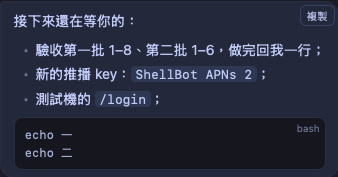
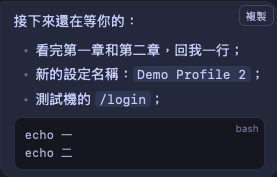
Tests: the copy test's message is neutral demo text
It was adapted from a real conversation (its review batches and a key's name). The public repo
gets demo data only: the same shape (a list, inline code, a code block), neutral words.
qa-shots/chat-copy-buttons.png redrawn.

diff --git a/tests_chat_copy.py b/tests_chat_copy.py
@@ -37,7 +37,7 @@ except ImportError:
     print("SKIP  tests_chat_copy.py（沒裝 playwright）")
     sys.exit(0)
 
-REPLY = ("接下來還在等你的：\n\n- 驗收第一批 1–8、第二批 1–6，做完回我一行；\n- 新的推播 key：`ShellBot APNs 2`；\n"
+REPLY = ("接下來還在等你的：\n\n- 看完第一章和第二章，回我一行；\n- 新的設定名稱：`Demo Profile 2`；\n"
          "- 測試機的 `/login`；\n\n```bash\necho 一\necho 二\n```")
 LONG = "長訊息：" + "這一段很長的說明，" * 200 + "最後一句。"
 TURNS = [{"kind": "user_msg", "text": "還有哪些在等我？"}, {"kind": "assistant_text", "text": REPLY},
@@ -94,7 +94,7 @@ def run(browser, engine):
 
     print(f"[{engine}] 1. ⌘C on a selection")
     got = page.evaluate(COPY_SELECTION, BOT)
-    want = ("接下來還在等你的：\n• 驗收第一批 1–8、第二批 1–6，做完回我一行；\n• 新的推播 key：ShellBot APNs 2；\n"
+    want = ("接下來還在等你的：\n• 看完第一章和第二章，回我一行；\n• 新的設定名稱：Demo Profile 2；\n"
             "• 測試機的 /login；\necho 一\necho 二")
     check("a message: list items as \"• text\", inline code as text, the code block's lines", got["text"] == want, got)
     check("…no button, no label in it", "複製" not in got["text"] and "bash" not in got["text"])
